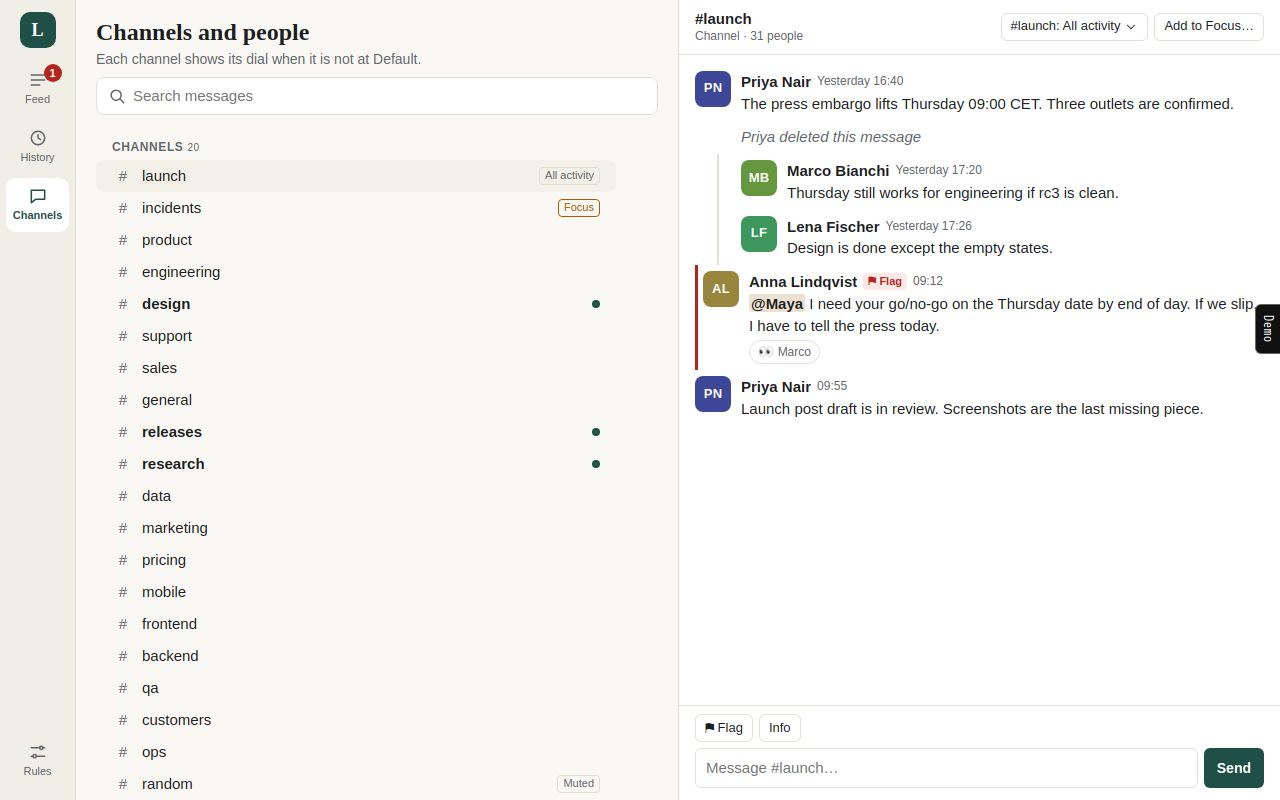
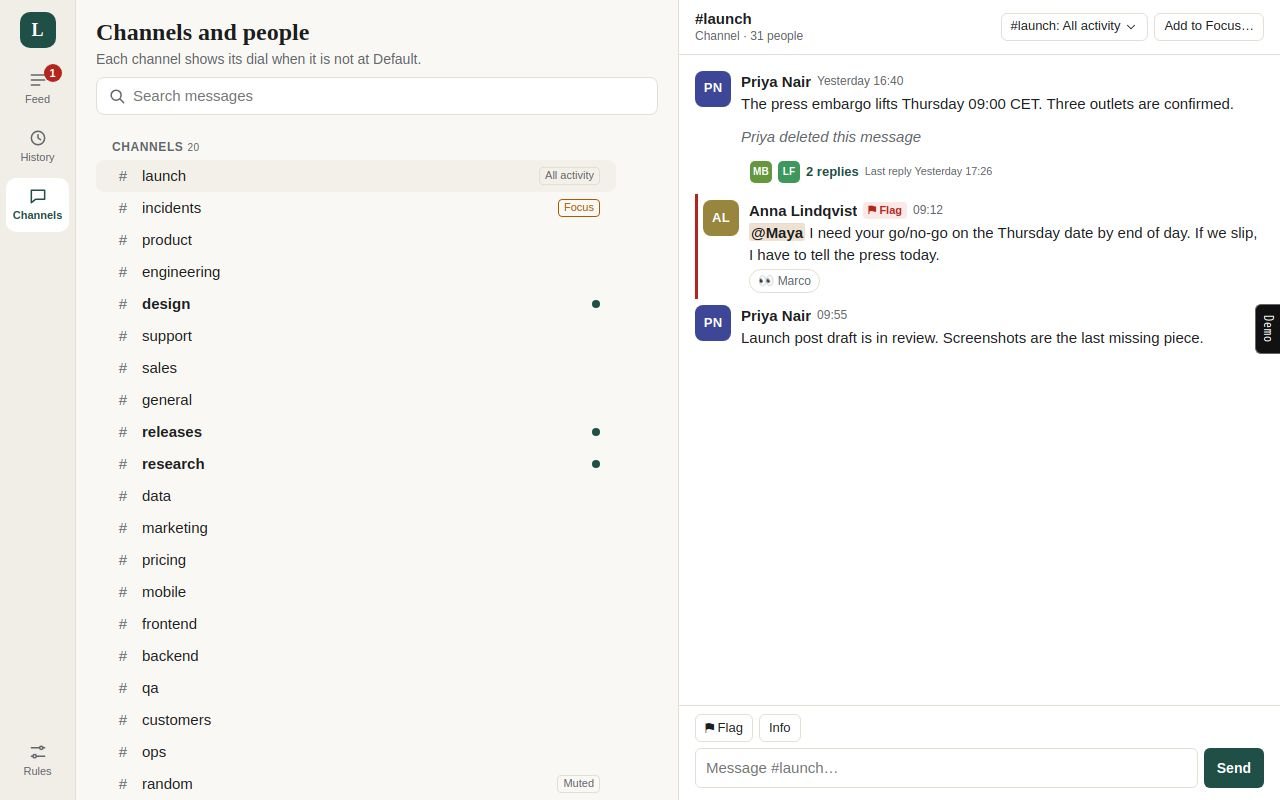
docs: no inline threads; replies open as their own thread from a link under the message (D-023, E-002, T-025)
Verified: ./experiments/E-002-look-and-feel/run.sh passes 524 checks at 1280 and 390 px; the channel and the opened thread were looked at
rendered on desktop; ./scripts/check passes. Not verified: not looked at on a phone.

Changed region(s): [[0.5312, 0.1875, 0.9688, 0.5312]]

diff --git a/experiments/E-002-look-and-feel/own.html b/experiments/E-002-look-and-feel/own.html
@@ -401,6 +401,13 @@ button.rx:hover{border-color:var(--accent)}
 .set-link small{color:var(--muted);font-size:13px}
 .set-link .ic{transform:rotate(-90deg);color:var(--muted)}
 .set-back{display:inline-block;margin:-2px 0 6px}
+/* threads the familiar way: a link under the message, the thread opens on its own */
+.thread-link{display:flex;align-items:center;gap:6px;margin:2px 0 6px 46px;padding:4px 8px;border:1px solid transparent;border-radius:6px;font-size:13px;color:var(--accent)}
+.thread-link:hover{border-color:var(--line);background:var(--panel)}
+.thread-link small{color:var(--muted)}
+.thread-link .tl-go{color:var(--muted);visibility:hidden}
+.thread-link:hover .tl-go{visibility:visible}
+.to-chan{font-size:12px}
 
 /* The agent's own: a calm page. The reason leads every row, and a row's size says how much attention it asks for. */
 :root{--bg:#faf8f4;--panel:#fff;--panel2:#f1eee7;--line:#e4dfd4;--hover:#f3f0e9;--accent:#1f4f46;--accent-soft:#e1ece9;--serif:ui-serif,Georgia,"Times New Roman",serif}
@@ -722,8 +729,9 @@ function rxHTML(m) {
 }
 function msgHTML(id, ctx) {
   const m = S.msgs[id], k = ctx + ':' + id, L = S.lock[k] || {};
-  const replies = (m.replies || []).map(x => msgHTML(x, ctx)).join('');
-  const rep = replies ? `<div class="msg-replies">${replies}</div>` : '';
+  // replies are never shown inline: a message with replies carries a link that opens its thread (the habit people know)
+  const rs = m.replies || [], replies = rs.length, inThread = S.conv === 'th-' + id, lastR = replies && S.msgs[rs[rs.length - 1]];
+  const rep = replies && !inThread ? `<button class="thread-link" data-act="openThread" data-m="${id}">${[...new Set(rs.map(x => S.msgs[x].by))].slice(0, 3).map(x => av(x, 'xs')).join('')}<b>${replies} ${replies === 1 ? 'reply' : 'replies'}</b><small>Last reply ${lastR.t}</small><span class="tl-go">View thread ›</span></button>` : '';
   if (m.deleted) {
     if (!replies && !L.self) return '';
     return `<div class="msg deleted" data-k="${k}"><div class="msg-self"${L.self ? ` style="height:${L.self}px"` : ''}><span class="tomb">${first(m.by)} deleted this message</span></div>${rep}</div>`;
@@ -867,7 +875,7 @@ function convPane() {
   if (!S.conv) return `<div class="conv none"><div class="empty">${SUN}<p>${S.actOpen === false ? 'Choose a channel or a person on the left. Activity is closed; its count stays in the sidebar.' : 'Open a row to read the conversation here, next to the feed.'}</p></div></div>`;
   const c = conv(S.conv);
   const title = c.kind === 'dm' ? pn(c.with) : c.kind === 'channel' ? '#' + c.name : c.title;
-  const sub = c.kind === 'dm' ? P[c.with][1] + (isAgent(c.with) ? ' · agent' : '') : c.kind === 'channel' ? `Channel · ${c.people} people` : `Thread in #${c.where}`;
+  const sub = c.kind === 'dm' ? P[c.with][1] + (isAgent(c.with) ? ' · agent' : '') : c.kind === 'channel' ? `Channel · ${c.people} people` : `<button class="link to-chan" data-act="openConv" data-c="ch-${c.where}">‹ #${c.where}</button> · Thread`;
   let seenNew = false;
   const body = c.msgs.map(id => { const m = S.msgs[id]; let d = ''; if (m.isNew && !seenNew) { seenNew = true; d = '<div class="newline"><span>New</span></div>'; } return d + msgHTML(id, 'conv'); }).join('');
   const lv = l => `<button type="button" class="btn sm lv-${l}${S.level === l ? ' on' : ''}" data-act="level" data-l="${l}">${l === 'flag' ? '⚑ Flag' : 'Info'}</button>`;
@@ -1003,6 +1011,11 @@ const A = {
   toggle(d) { const r = row(d.id); if (S.exp.has(d.id)) S.exp.delete(d.id); else { S.exp.add(d.id); r.read = true; } },
   more(d) { row(d.id).all = true; },
   openConv(d) { if (S.conv !== d.c) S.lock = Object.fromEntries(Object.entries(S.lock).filter(([k]) => !k.startsWith('conv:'))); S.conv = d.c; conv(d.c); S.menu = null; S.modal = null; S.rows.forEach(r => { if (r.conv === d.c && (!d.id || r.id === d.id || conv(d.c).kind !== 'channel')) r.read = true; }); const sr = document.getElementById('sr'); if (sr) sr.innerHTML = ''; S.q = ''; },
+  openThread(d) { // a thread opens as its own conversation, in place of the channel, with a way back
+    const m = S.msgs[d.m], id = 'th-' + d.m, par = conv(m.conv);
+    if (!S.convs[id]) S.convs[id] = { id, kind: 'thread', title: m.deleted ? 'Thread' : m.text.slice(0, 40) + (m.text.length > 40 ? '…' : ''), where: par.name || par.where, tdial: 'off', tauto: 'you are not part of it', msgs: [d.m, ...m.replies] };
+    A.openConv({ c: id });
+  },
   closeConv() { S.conv = null; S.menu = null; },
   read(d) { row(d.id).read = true; },
   keep(d) { const r = row(d.id); r.kept = r.kept || 'you'; r.read = true; r.keptNow = true; },

diff --git a/experiments/E-002-look-and-feel/slack-like.html b/experiments/E-002-look-and-feel/slack-like.html
@@ -401,6 +401,13 @@ button.rx:hover{border-color:var(--accent)}
 .set-link small{color:var(--muted);font-size:13px}
 .set-link .ic{transform:rotate(-90deg);color:var(--muted)}
 .set-back{display:inline-block;margin:-2px 0 6px}
+/* threads the familiar way: a link under the message, the thread opens on its own */
+.thread-link{display:flex;align-items:center;gap:6px;margin:2px 0 6px 46px;padding:4px 8px;border:1px solid transparent;border-radius:6px;font-size:13px;color:var(--accent)}
+.thread-link:hover{border-color:var(--line);background:var(--panel)}
+.thread-link small{color:var(--muted)}
+.thread-link .tl-go{color:var(--muted);visibility:hidden}
+.thread-link:hover .tl-go{visibility:visible}
+.to-chan{font-size:12px}
 
 /* Slack-like: dark sidebar, dense rows, square avatars, flat messages. Own colours, no borrowed marks. */
 :root{--accent:#0f6e64;--side:#1d2b2a;--side-text:#cfdcda;--side-hover:#2a3d3b}
@@ -695,8 +702,9 @@ function rxHTML(m) {
 }
 function msgHTML(id, ctx) {
   const m = S.msgs[id], k = ctx + ':' + id, L = S.lock[k] || {};
-  const replies = (m.replies || []).map(x => msgHTML(x, ctx)).join('');
-  const rep = replies ? `<div class="msg-replies">${replies}</div>` : '';
+  // replies are never shown inline: a message with replies carries a link that opens its thread (the habit people know)
+  const rs = m.replies || [], replies = rs.length, inThread = S.conv === 'th-' + id, lastR = replies && S.msgs[rs[rs.length - 1]];
+  const rep = replies && !inThread ? `<button class="thread-link" data-act="openThread" data-m="${id}">${[...new Set(rs.map(x => S.msgs[x].by))].slice(0, 3).map(x => av(x, 'xs')).join('')}<b>${replies} ${replies === 1 ? 'reply' : 'replies'}</b><small>Last reply ${lastR.t}</small><span class="tl-go">View thread ›</span></button>` : '';
   if (m.deleted) {
     if (!replies && !L.self) return '';
     return `<div class="msg deleted" data-k="${k}"><div class="msg-self"${L.self ? ` style="height:${L.self}px"` : ''}><span class="tomb">${first(m.by)} deleted this message</span></div>${rep}</div>`;
@@ -840,7 +848,7 @@ function convPane() {
   if (!S.conv) return `<div class="conv none"><div class="empty">${SUN}<p>${S.actOpen === false ? 'Choose a channel or a person on the left. Activity is closed; its count stays in the sidebar.' : 'Open a row to read the conversation here, next to the feed.'}</p></div></div>`;
   const c = conv(S.conv);
   const title = c.kind === 'dm' ? pn(c.with) : c.kind === 'channel' ? '#' + c.name : c.title;
-  const sub = c.kind === 'dm' ? P[c.with][1] + (isAgent(c.with) ? ' · agent' : '') : c.kind === 'channel' ? `Channel · ${c.people} people` : `Thread in #${c.where}`;
+  const sub = c.kind === 'dm' ? P[c.with][1] + (isAgent(c.with) ? ' · agent' : '') : c.kind === 'channel' ? `Channel · ${c.people} people` : `<button class="link to-chan" data-act="openConv" data-c="ch-${c.where}">‹ #${c.where}</button> · Thread`;
   let seenNew = false;
   const body = c.msgs.map(id => { const m = S.msgs[id]; let d = ''; if (m.isNew && !seenNew) { seenNew = true; d = '<div class="newline"><span>New</span></div>'; } return d + msgHTML(id, 'conv'); }).join('');
   const lv = l => `<button type="button" class="btn sm lv-${l}${S.level === l ? ' on' : ''}" data-act="level" data-l="${l}">${l === 'flag' ? '⚑ Flag' : 'Info'}</button>`;
@@ -976,6 +984,11 @@ const A = {
   toggle(d) { const r = row(d.id); if (S.exp.has(d.id)) S.exp.delete(d.id); else { S.exp.add(d.id); r.read = true; } },
   more(d) { row(d.id).all = true; },
   openConv(d) { if (S.conv !== d.c) S.lock = Object.fromEntries(Object.entries(S.lock).filter(([k]) => !k.startsWith('conv:'))); S.conv = d.c; conv(d.c); S.menu = null; S.modal = null; S.rows.forEach(r => { if (r.conv === d.c && (!d.id || r.id === d.id || conv(d.c).kind !== 'channel')) r.read = true; }); const sr = document.getElementById('sr'); if (sr) sr.innerHTML = ''; S.q = ''; },
+  openThread(d) { // a thread opens as its own conversation, in place of the channel, with a way back
+    const m = S.msgs[d.m], id = 'th-' + d.m, par = conv(m.conv);
+    if (!S.convs[id]) S.convs[id] = { id, kind: 'thread', title: m.deleted ? 'Thread' : m.text.slice(0, 40) + (m.text.length > 40 ? '…' : ''), where: par.name || par.where, tdial: 'off', tauto: 'you are not part of it', msgs: [d.m, ...m.replies] };
+    A.openConv({ c: id });
+  },
   closeConv() { S.conv = null; S.menu = null; },
   read(d) { row(d.id).read = true; },
   keep(d) { const r = row(d.id); r.kept = r.kept || 'you'; r.read = true; r.keptNow = true; },

diff --git a/experiments/E-002-look-and-feel/telegram-like.html b/experiments/E-002-look-and-feel/telegram-like.html
@@ -401,6 +401,13 @@ button.rx:hover{border-color:var(--accent)}
 .set-link small{color:var(--muted);font-size:13px}
 .set-link .ic{transform:rotate(-90deg);color:var(--muted)}
 .set-back{display:inline-block;margin:-2px 0 6px}
+/* threads the familiar way: a link under the message, the thread opens on its own */
+.thread-link{display:flex;align-items:center;gap:6px;margin:2px 0 6px 46px;padding:4px 8px;border:1px solid transparent;border-radius:6px;font-size:13px;color:var(--accent)}
+.thread-link:hover{border-color:var(--line);background:var(--panel)}
+.thread-link small{color:var(--muted)}
+.thread-link .tl-go{color:var(--muted);visibility:hidden}
+.thread-link:hover .tl-go{visibility:visible}
+.to-chan{font-size:12px}
 
 /* Telegram-like: one list, round avatars, big targets, folders for buckets, bubbles. Own colours. */
 :root{--accent:#6a4fd0;--accent-soft:#ebe6fb;--r:14px;--wall:#eeebe4}
@@ -708,8 +715,9 @@ function rxHTML(m) {
 }
 function msgHTML(id, ctx) {
   const m = S.msgs[id], k = ctx + ':' + id, L = S.lock[k] || {};
-  const replies = (m.replies || []).map(x => msgHTML(x, ctx)).join('');
-  const rep = replies ? `<div class="msg-replies">${replies}</div>` : '';
+  // replies are never shown inline: a message with replies carries a link that opens its thread (the habit people know)
+  const rs = m.replies || [], replies = rs.length, inThread = S.conv === 'th-' + id, lastR = replies && S.msgs[rs[rs.length - 1]];
+  const rep = replies && !inThread ? `<button class="thread-link" data-act="openThread" data-m="${id}">${[...new Set(rs.map(x => S.msgs[x].by))].slice(0, 3).map(x => av(x, 'xs')).join('')}<b>${replies} ${replies === 1 ? 'reply' : 'replies'}</b><small>Last reply ${lastR.t}</small><span class="tl-go">View thread ›</span></button>` : '';
   if (m.deleted) {
     if (!replies && !L.self) return '';
     return `<div class="msg deleted" data-k="${k}"><div class="msg-self"${L.self ? ` style="height:${L.self}px"` : ''}><span class="tomb">${first(m.by)} deleted this message</span></div>${rep}</div>`;
@@ -853,7 +861,7 @@ function convPane() {
   if (!S.conv) return `<div class="conv none"><div class="empty">${SUN}<p>${S.actOpen === false ? 'Choose a channel or a person on the left. Activity is closed; its count stays in the sidebar.' : 'Open a row to read the conversation here, next to the feed.'}</p></div></div>`;
   const c = conv(S.conv);
   const title = c.kind === 'dm' ? pn(c.with) : c.kind === 'channel' ? '#' + c.name : c.title;
-  const sub = c.kind === 'dm' ? P[c.with][1] + (isAgent(c.with) ? ' · agent' : '') : c.kind === 'channel' ? `Channel · ${c.people} people` : `Thread in #${c.where}`;
+  const sub = c.kind === 'dm' ? P[c.with][1] + (isAgent(c.with) ? ' · agent' : '') : c.kind === 'channel' ? `Channel · ${c.people} people` : `<button class="link to-chan" data-act="openConv" data-c="ch-${c.where}">‹ #${c.where}</button> · Thread`;
   let seenNew = false;
   const body = c.msgs.map(id => { const m = S.msgs[id]; let d = ''; if (m.isNew && !seenNew) { seenNew = true; d = '<div class="newline"><span>New</span></div>'; } return d + msgHTML(id, 'conv'); }).join('');
   const lv = l => `<button type="button" class="btn sm lv-${l}${S.level === l ? ' on' : ''}" data-act="level" data-l="${l}">${l === 'flag' ? '⚑ Flag' : 'Info'}</button>`;
@@ -989,6 +997,11 @@ const A = {
   toggle(d) { const r = row(d.id); if (S.exp.has(d.id)) S.exp.delete(d.id); else { S.exp.add(d.id); r.read = true; } },
   more(d) { row(d.id).all = true; },
   openConv(d) { if (S.conv !== d.c) S.lock = Object.fromEntries(Object.entries(S.lock).filter(([k]) => !k.startsWith('conv:'))); S.conv = d.c; conv(d.c); S.menu = null; S.modal = null; S.rows.forEach(r => { if (r.conv === d.c && (!d.id || r.id === d.id || conv(d.c).kind !== 'channel')) r.read = true; }); const sr = document.getElementById('sr'); if (sr) sr.innerHTML = ''; S.q = ''; },
+  openThread(d) { // a thread opens as its own conversation, in place of the channel, with a way back
+    const m = S.msgs[d.m], id = 'th-' + d.m, par = conv(m.conv);
+    if (!S.convs[id]) S.convs[id] = { id, kind: 'thread', title: m.deleted ? 'Thread' : m.text.slice(0, 40) + (m.text.length > 40 ? '…' : ''), where: par.name || par.where, tdial: 'off', tauto: 'you are not part of it', msgs: [d.m, ...m.replies] };
+    A.openConv({ c: id });
+  },
   closeConv() { S.conv = null; S.menu = null; },
   read(d) { row(d.id).read = true; },
   keep(d) { const r = row(d.id); r.kept = r.kept || 'you'; r.read = true; r.keptNow = true; },

diff --git a/experiments/E-002-look-and-feel/src/core.js b/experiments/E-002-look-and-feel/src/core.js
@@ -225,8 +225,9 @@ function rxHTML(m) {
 }
 function msgHTML(id, ctx) {
   const m = S.msgs[id], k = ctx + ':' + id, L = S.lock[k] || {};
-  const replies = (m.replies || []).map(x => msgHTML(x, ctx)).join('');
-  const rep = replies ? `<div class="msg-replies">${replies}</div>` : '';
+  // replies are never shown inline: a message with replies carries a link that opens its thread (the habit people know)
+  const rs = m.replies || [], replies = rs.length, inThread = S.conv === 'th-' + id, lastR = replies && S.msgs[rs[rs.length - 1]];
+  const rep = replies && !inThread ? `<button class="thread-link" data-act="openThread" data-m="${id}">${[...new Set(rs.map(x => S.msgs[x].by))].slice(0, 3).map(x => av(x, 'xs')).join('')}<b>${replies} ${replies === 1 ? 'reply' : 'replies'}</b><small>Last reply ${lastR.t}</small><span class="tl-go">View thread ›</span></button>` : '';
   if (m.deleted) {
     if (!replies && !L.self) return '';
     return `<div class="msg deleted" data-k="${k}"><div class="msg-self"${L.self ? ` style="height:${L.self}px"` : ''}><span class="tomb">${first(m.by)} deleted this message</span></div>${rep}</div>`;
@@ -370,7 +371,7 @@ function convPane() {
   if (!S.conv) return `<div class="conv none"><div class="empty">${SUN}<p>${S.actOpen === false ? 'Choose a channel or a person on the left. Activity is closed; its count stays in the sidebar.' : 'Open a row to read the conversation here, next to the feed.'}</p></div></div>`;
   const c = conv(S.conv);
   const title = c.kind === 'dm' ? pn(c.with) : c.kind === 'channel' ? '#' + c.name : c.title;
-  const sub = c.kind === 'dm' ? P[c.with][1] + (isAgent(c.with) ? ' · agent' : '') : c.kind === 'channel' ? `Channel · ${c.people} people` : `Thread in #${c.where}`;
+  const sub = c.kind === 'dm' ? P[c.with][1] + (isAgent(c.with) ? ' · agent' : '') : c.kind === 'channel' ? `Channel · ${c.people} people` : `<button class="link to-chan" data-act="openConv" data-c="ch-${c.where}">‹ #${c.where}</button> · Thread`;
   let seenNew = false;
   const body = c.msgs.map(id => { const m = S.msgs[id]; let d = ''; if (m.isNew && !seenNew) { seenNew = true; d = '<div class="newline"><span>New</span></div>'; } return d + msgHTML(id, 'conv'); }).join('');
   const lv = l => `<button type="button" class="btn sm lv-${l}${S.level === l ? ' on' : ''}" data-act="level" data-l="${l}">${l === 'flag' ? '⚑ Flag' : 'Info'}</button>`;
@@ -506,6 +507,11 @@ const A = {
   toggle(d) { const r = row(d.id); if (S.exp.has(d.id)) S.exp.delete(d.id); else { S.exp.add(d.id); r.read = true; } },
   more(d) { row(d.id).all = true; },
   openConv(d) { if (S.conv !== d.c) S.lock = Object.fromEntries(Object.entries(S.lock).filter(([k]) => !k.startsWith('conv:'))); S.conv = d.c; conv(d.c); S.menu = null; S.modal = null; S.rows.forEach(r => { if (r.conv === d.c && (!d.id || r.id === d.id || conv(d.c).kind !== 'channel')) r.read = true; }); const sr = document.getElementById('sr'); if (sr) sr.innerHTML = ''; S.q = ''; },
+  openThread(d) { // a thread opens as its own conversation, in place of the channel, with a way back
+    const m = S.msgs[d.m], id = 'th-' + d.m, par = conv(m.conv);
+    if (!S.convs[id]) S.convs[id] = { id, kind: 'thread', title: m.deleted ? 'Thread' : m.text.slice(0, 40) + (m.text.length > 40 ? '…' : ''), where: par.name || par.where, tdial: 'off', tauto: 'you are not part of it', msgs: [d.m, ...m.replies] };
+    A.openConv({ c: id });
+  },
   closeConv() { S.conv = null; S.menu = null; },
   read(d) { row(d.id).read = true; },
   keep(d) { const r = row(d.id); r.kept = r.kept || 'you'; r.read = true; r.keptNow = true; },

diff --git a/experiments/E-002-look-and-feel/src/core.css b/experiments/E-002-look-and-feel/src/core.css
@@ -393,3 +393,10 @@ button.rx:hover{border-color:var(--accent)}
 .set-link small{color:var(--muted);font-size:13px}
 .set-link .ic{transform:rotate(-90deg);color:var(--muted)}
 .set-back{display:inline-block;margin:-2px 0 6px}
+/* threads the familiar way: a link under the message, the thread opens on its own */
+.thread-link{display:flex;align-items:center;gap:6px;margin:2px 0 6px 46px;padding:4px 8px;border:1px solid transparent;border-radius:6px;font-size:13px;color:var(--accent)}
+.thread-link:hover{border-color:var(--line);background:var(--panel)}
+.thread-link small{color:var(--muted)}
+.thread-link .tl-go{color:var(--muted);visibility:hidden}
+.thread-link:hover .tl-go{visibility:visible}
+.to-chan{font-size:12px}

diff --git a/experiments/E-002-look-and-feel/check.py b/experiments/E-002-look-and-feel/check.py
@@ -174,8 +174,13 @@ def run(browser, slug, size, vp, scale):
     if slug == "slack-like" and phone: click('[data-act="view"][data-v="chats"]')
     elif slug != "slack-like": click('[data-act="view"][data-v="chats"]')
     click('[data-act="openConv"][data-c="ch-launch"]')
-    ok("deleted message with replies keeps a marker and its two replies", pg.locator(".conv .msg.deleted .msg-replies .msg").count() == 2 and "Priya deleted this message" in pg.locator(".conv .msg.deleted").inner_text())
+    ok("a deleted message with replies keeps a marker and a link to its thread; no replies inline", "Priya deleted this message" in pg.locator(".conv .msg.deleted").inner_text() and "2 replies" in pg.locator(".conv .msg.deleted .thread-link").inner_text() and pg.locator(".conv .msg-replies").count() == 0 and pg.locator(".conv .msg").count() == 4)
     shot("08-conversation")
+    click(".conv .thread-link")
+    ok("the thread opens on its own, with the marker on top and its two replies", "Thread" in pg.locator(".conv-head").inner_text() and pg.locator(".conv .msg").count() == 3 and "Priya deleted this message" in pg.locator(".conv .msg").first.inner_text() and pg.locator(".conv .thread-link").count() == 0)
+    shot("08b-thread")
+    click(".conv .to-chan")
+    ok("and there is a way back to the channel", "#launch" in pg.locator(".conv-title b").inner_text())
     click('.conv-head .dial-btn')
     ok("channel dial offers four levels", pg.locator(".conv-head .pop .opt").count() == 4)
     shot("09-channel-dial")

diff --git a/docs/decisions/README.md b/docs/decisions/README.md
@@ -24,11 +24,11 @@ Line format: `- **D-nnn** [status] The decision as a statement, and what it comm
 - **D-020** [accepted] The reason line on a feed row opens why it is there and what to change: what the item is, what put it in the bucket, where it would go otherwise, and one button. It never reads the row; a change from a row acts at once on the narrowest thing, says so and offers Undo → [record](D-020-a-row-explains-its-place.md)
 - **D-021** [accepted] Direct messages reach Focus through a list of people that fills itself: an option adds everyone who writes to you directly; switching it off stops adding and asks about those already added; removing from a row removes that person only, without asking. Supersedes the single starting rule for direct messages in D-001 → [record](D-021-focus-people-for-direct-messages.md)
 - **D-022** [accepted] Notifications are shown in a separate mock notification app for a selected person, not inside the product: no bell, no tray. Supersedes the tray in D-009; what notifies stays a setting beside the feed settings → [record](D-022-notifications-shown-outside-the-product.md)
-- **D-023** [accepted] How the feed is used day to day in the chosen layout: react to any message with a full picker, and from an unopened row; a row is ready to answer when opened and closes when the reply is sent; arrivals wait behind a button beside the Activity title; on a phone a tap opens the conversation and nothing expands; one settings screen, with general rules on the Activity feed page and people and channel levels as lists under it, where anything removed can be added back; a thread in Focus is the thread's own level and is not listed in settings; the person's own menu in the sidebar; Activity can be closed; on a phone a React button on the row and two swipes, Keep and Mark read. Supersedes expanding in place on a phone (D-003). Six further points are the agent's proposals inside the record → [record](D-023-feed-interaction-details.md)
+- **D-023** [accepted] How the feed is used day to day in the chosen layout: react to any message with a full picker, and from an unopened row; a row is ready to answer when opened and closes when the reply is sent; arrivals wait behind a button beside the Activity title; on a phone a tap opens the conversation and nothing expands; one settings screen, with general rules on the Activity feed page and people and channel levels as lists under it, where anything removed can be added back; a thread in Focus is the thread's own level and is not listed in settings; no inline threads: replies open as their own thread from a link under the message; the person's own menu in the sidebar; Activity can be closed; on a phone a React button on the row and two swipes, Keep and Mark read. Supersedes expanding in place on a phone (D-003). Six further points are the agent's proposals inside the record → [record](D-023-feed-interaction-details.md)
 
 ## System shape: components, boundaries, stack
 
-- **D-005** [proposed] Parts that talk only over the network and run as separate programs from one codebase; PostgreSQL as the one source of truth with a numbered change log; WebSocket with numbered updates and catch-up; Python on the server. Would commit us to network boundaries between parts and a single log every receiver is fed from → [record](D-005-system-shape.md)
+- **D-005** [proposed; the database part accepted 2026-11-22: PostgreSQL] Parts that talk only over the network and run as separate programs from one codebase; PostgreSQL as the one source of truth with a numbered change log; WebSocket with numbered updates and catch-up; Python on the server. Would commit us to network boundaries between parts and a single log every receiver is fed from → [record](D-005-system-shape.md)
 - **D-017** [open] Who owns what a reader did (read positions, dials, Focus rules, Keep and Done): the core as facts on the same log, with the feed worked out from them, or the feed itself. The draft assumes the core. Options: `docs/visuals/T-022-architecture-proposal.html`, section 5
 
 ## Contracts and qualities: what services promise each other

diff --git a/docs/decisions/D-023-feed-interaction-details.md b/docs/decisions/D-023-feed-interaction-details.md
@@ -51,6 +51,8 @@ As listed under "Decided"; where the agent had built something else first, the r
 
 19. **Threads put in Focus are not listed in settings.** "I'm not sure I want focus threads in settings, it would be polluted over time." A thread is put in Focus, and taken out, on the thread itself: it is the thread's own level (D-001's thread dial), not a rule kept in a list. History → Threads shows each thread's level. This narrows points 16 and 18: people and channel levels are lists in settings, threads are not.
 
+20. **No inline threads.** "Please don't do inlined threads. Do it Slack way. I hate inlined threads." A message with replies shows a link under it (who replied, how many, when last) and the thread opens on its own. A deleted message that has replies keeps its marker and that link (D-004).
+
 ### Still the agent's proposal, shown in the mock-up, awaiting the user's word
 
 - **Context in an opened row:** the message before the new ones in a direct conversation; the start of the thread and the reply before in a thread; none for a mention in a channel.
@@ -58,6 +60,7 @@ As listed under "Decided"; where the agent had built something else first, the r
 - **The arrivals button is called "Show"**, and the control names how many arrived in Focus and Needs you.
 - **Which swipe is which:** the user set the pair; that right is read and left is keep is the agent's pick.
 - **On a phone the reply box is not given the cursor automatically**, since that opens the keyboard.
+- **Where a thread opens on a wide screen:** in the conversation pane, in place of the channel, with a link back to the channel. The messenger people know opens it beside the channel; here Activity already takes the second column.
 - **The settings sections** are Account, Activity feed (with Focus people and Channel levels under it) and Notifications. Sign out and switching person are named in the menu but not built: the first version has a person switcher in place of sign-in (D-009).
 - **The Notifications page** asks one question, "What should send you a notification?", with two choices and their daily figures from E-001. The user disliked the first form and did not understand the first Channels page; both were redrawn and not yet reviewed.
 
@@ -65,7 +68,7 @@ As listed under "Decided"; where the agent had built something else first, the r
 
 - Easier: one way to each thing, and a phone layout with two states, list and conversation.
 - Harder: two interaction models for a row, by width. The settings screen becomes a surface of its own that every later setting must fit into.
-- Committed to: the nineteen points above.
+- Committed to: the twenty points above.
 
 ## Follow-ups
 

diff --git a/experiments/E-002-look-and-feel/README.md b/experiments/E-002-look-and-feel/README.md
@@ -89,7 +89,7 @@ Three variants live in the Slack-like page behind the address ending `#why=a`, `
 
 ### After the review
 
-The pages now also show what the user decided next: variant (a) as the default (D-020), Focus people for direct messages (D-021), no notification bell, with the notification list reached from the Demo controls as a stand-in for the separate app (D-022), a mark-read button on rows (D-015), and Activity first on a phone (D-019). `check.py` covers these. A further proposal is shown and checked but not yet accepted (T-025): context above the new messages in an expanded row, a long burst showing its six newest messages with the earlier new ones one click above, and an arrow that opens the conversation at the first new message. After that the user set a run of interaction details, recorded in D-023 and shown in the Slack-like page (reactions on any message, a full picker, a phone layout where a tap opens the conversation and swipes give the quick actions, one settings screen, the person's own menu, a closable Activity). The other two pages share the behaviour but not the layout changes. 512 checks in all.
+The pages now also show what the user decided next: variant (a) as the default (D-020), Focus people for direct messages (D-021), no notification bell, with the notification list reached from the Demo controls as a stand-in for the separate app (D-022), a mark-read button on rows (D-015), and Activity first on a phone (D-019). `check.py` covers these. A further proposal is shown and checked but not yet accepted (T-025): context above the new messages in an expanded row, a long burst showing its six newest messages with the earlier new ones one click above, and an arrow that opens the conversation at the first new message. After that the user set a run of interaction details, recorded in D-023 and shown in the Slack-like page (reactions on any message, a full picker, a phone layout where a tap opens the conversation and swipes give the quick actions, one settings screen, the person's own menu, a closable Activity). The other two pages share the behaviour but not the layout changes. 524 checks in all.
 
 ### What this does not show
 

diff --git a/tasks/board.md b/tasks/board.md
@@ -10,7 +10,7 @@ _Nothing in progress._
 
 ## Waiting on user
 
-- **T-025** `decide` Proposal points in D-023 need the user's yes or changes: context in an opened row; a long burst showing its six newest messages; the arrivals button called "Show"; which swipe direction is which; no automatic cursor in the reply box on a phone; the redrawn Notifications and Channel levels pages of settings. All are shown in `experiments/E-002-look-and-feel/slack-like.html`. The nineteen points the user stated are accepted in D-023
+- **T-025** `decide` Proposal points in D-023 need the user's yes or changes: context in an opened row; a long burst showing its six newest messages; the arrivals button called "Show"; which swipe direction is which; no automatic cursor in the reply box on a phone; the redrawn Notifications and Channel levels pages of settings. All are shown in `experiments/E-002-look-and-feel/slack-like.html`. The twenty points the user stated are accepted in D-023
 - **T-022** `decide` The architecture proposal is ready for review: `docs/visuals/T-022-architecture-proposal.html` (system map, six technical decisions with options, payloads and failure tests) and `docs/visuals/T-022-walkthroughs.html` (seven walk-throughs). D-005 to D-008 are proposed; D-017 and D-018 are registered. First question to the user: the shape (D-005). Then D-017, D-018, D-006, D-007, D-008, one at a time. Detail: `tasks/T-022-architecture-draft.md`
 - **T-021** `decide` Nine small behaviours the E-001 model still chooses on its own (list in `experiments/E-001-feed-rules-model/README.md`, "Still open after this run"). None blocks the look-and-feel work. The notification default was confirmed by the user at about 29 a day
 

diff --git a/docs/decisions/D-005-system-shape.md b/docs/decisions/D-005-system-shape.md
@@ -50,7 +50,12 @@ Second opinion (a fresh agent, given the options without this recommendation): c
 
 ## Decision
 
-Not yet taken.
+Partly taken.
+
+- **The database: PostgreSQL.** Chosen by the user on 2026-11-22: "let's use PostgreSQL as an industry standard". The user added that it probably does not influence the architecture much; E-004 agrees (one implementation rule, no change of shape).
+- The shape (A, B or C), the live connection and the server language are not yet decided.
+
+Evidence since the proposal: E-003 built shape B small and broke it on purpose; it held. E-004 confirmed on PostgreSQL 17 that plain sequence numbering makes a worker miss about a fifth of the changes under concurrent writes, that numbering one writer at a time misses none at no measurable cost (about 1,000 changes a second either way), and that NOTIFY wakes a worker in about a millisecond.
 
 ## Consequences
 
